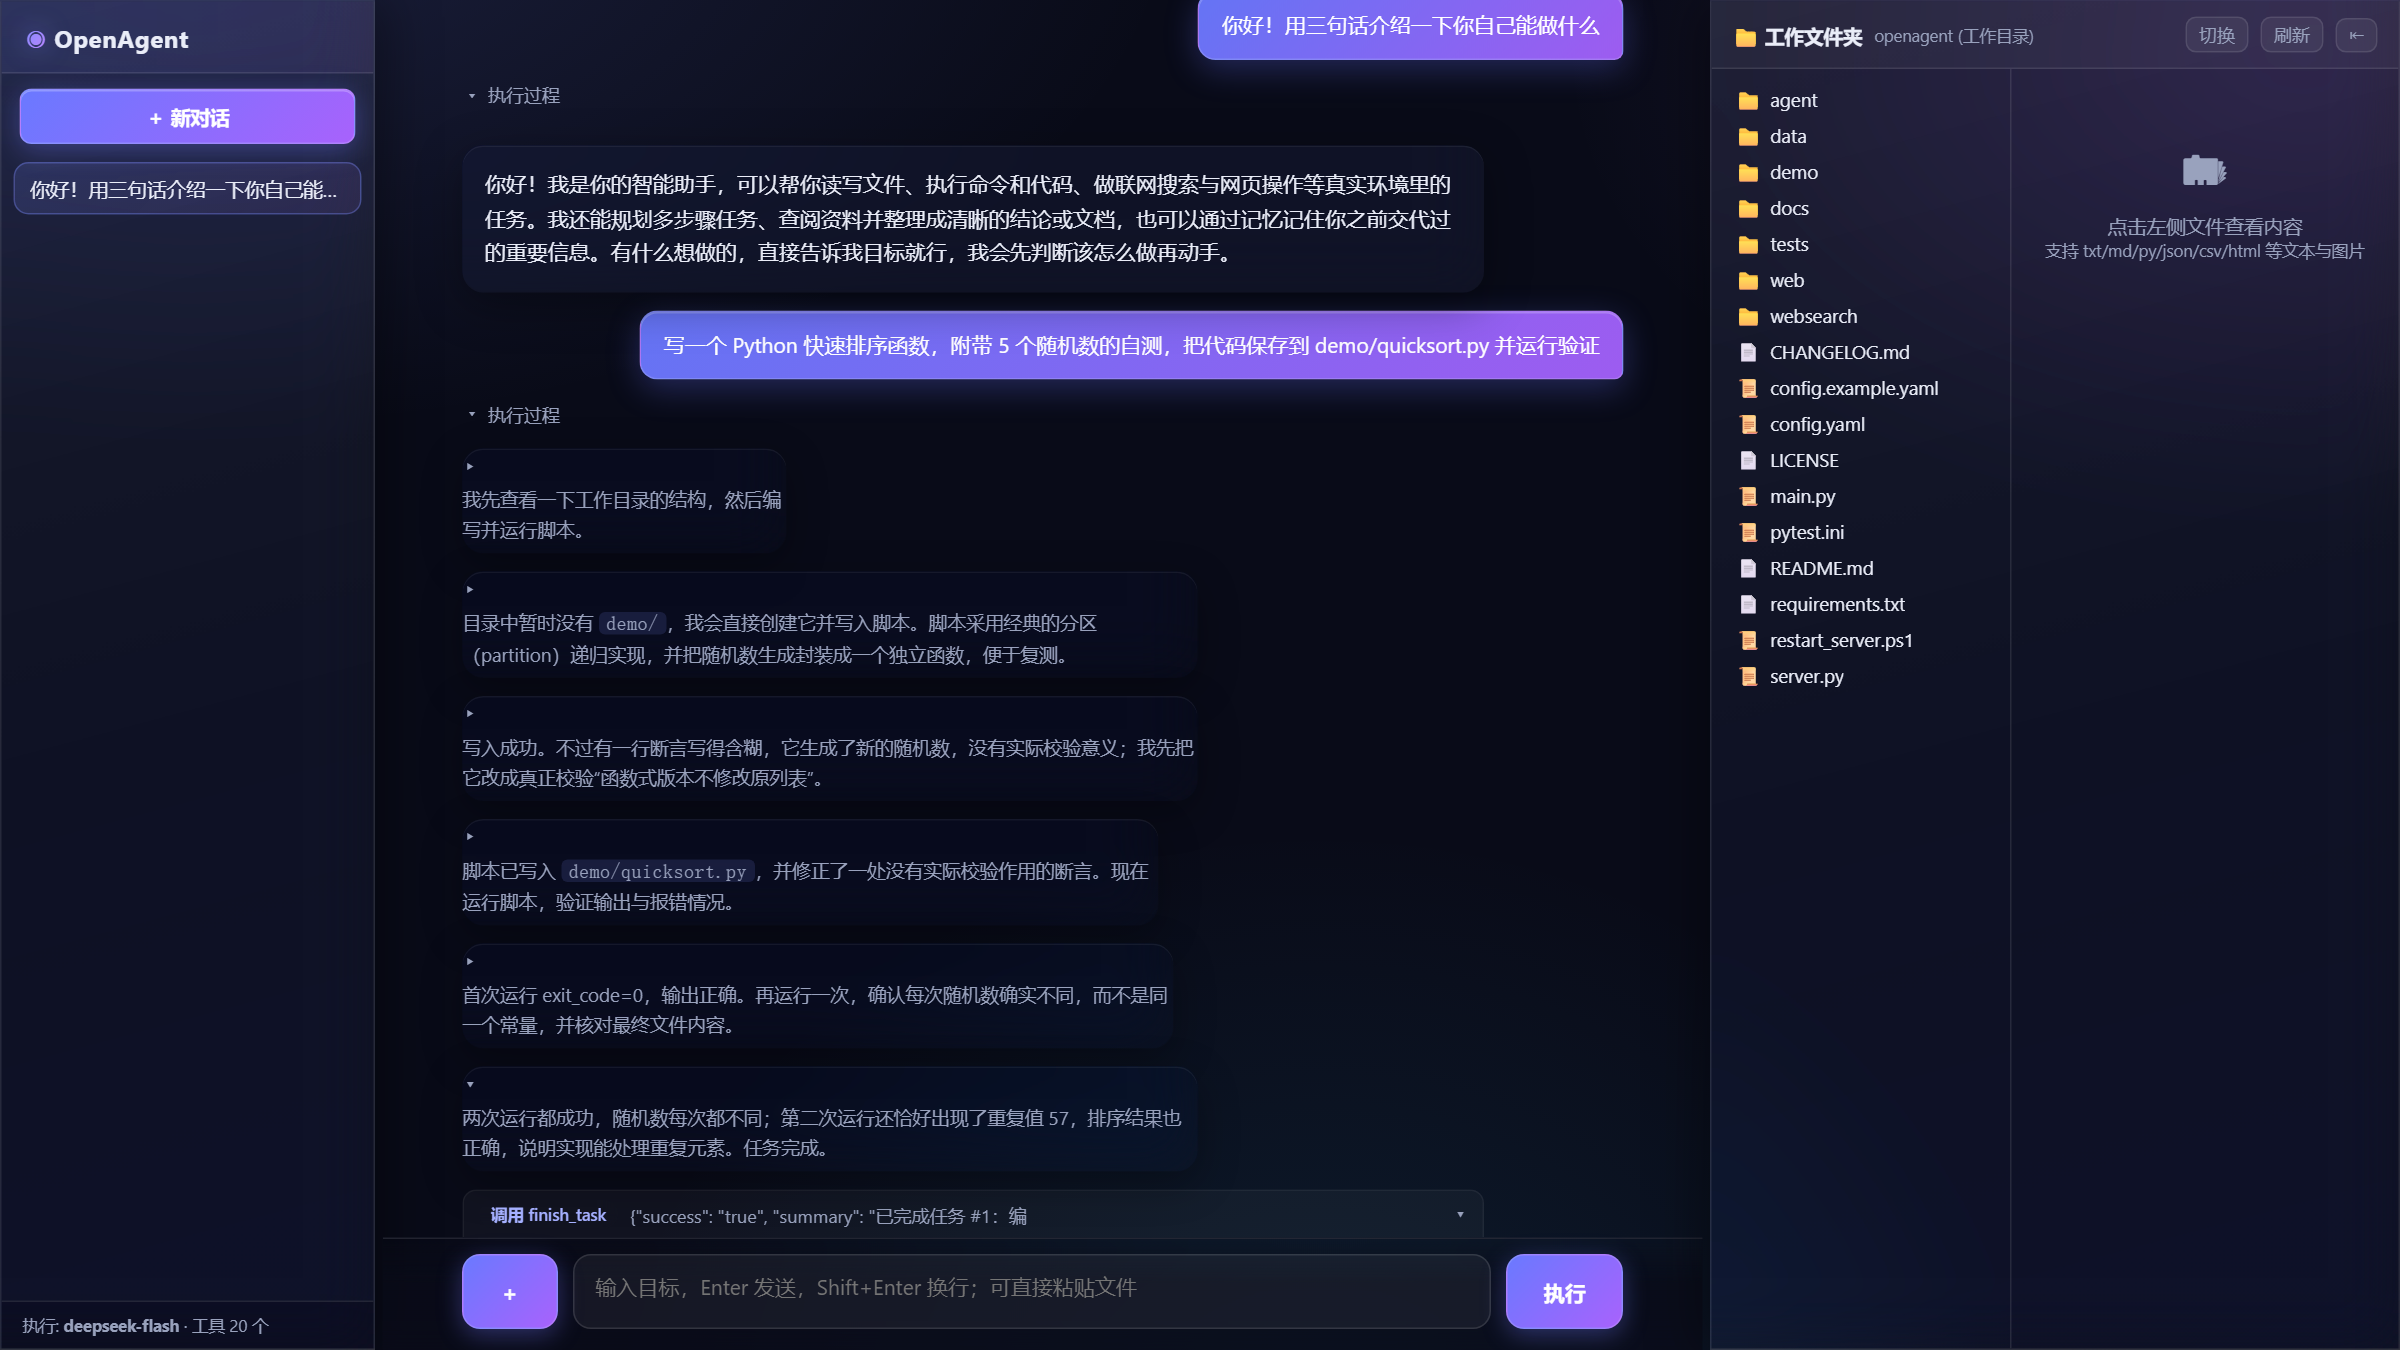
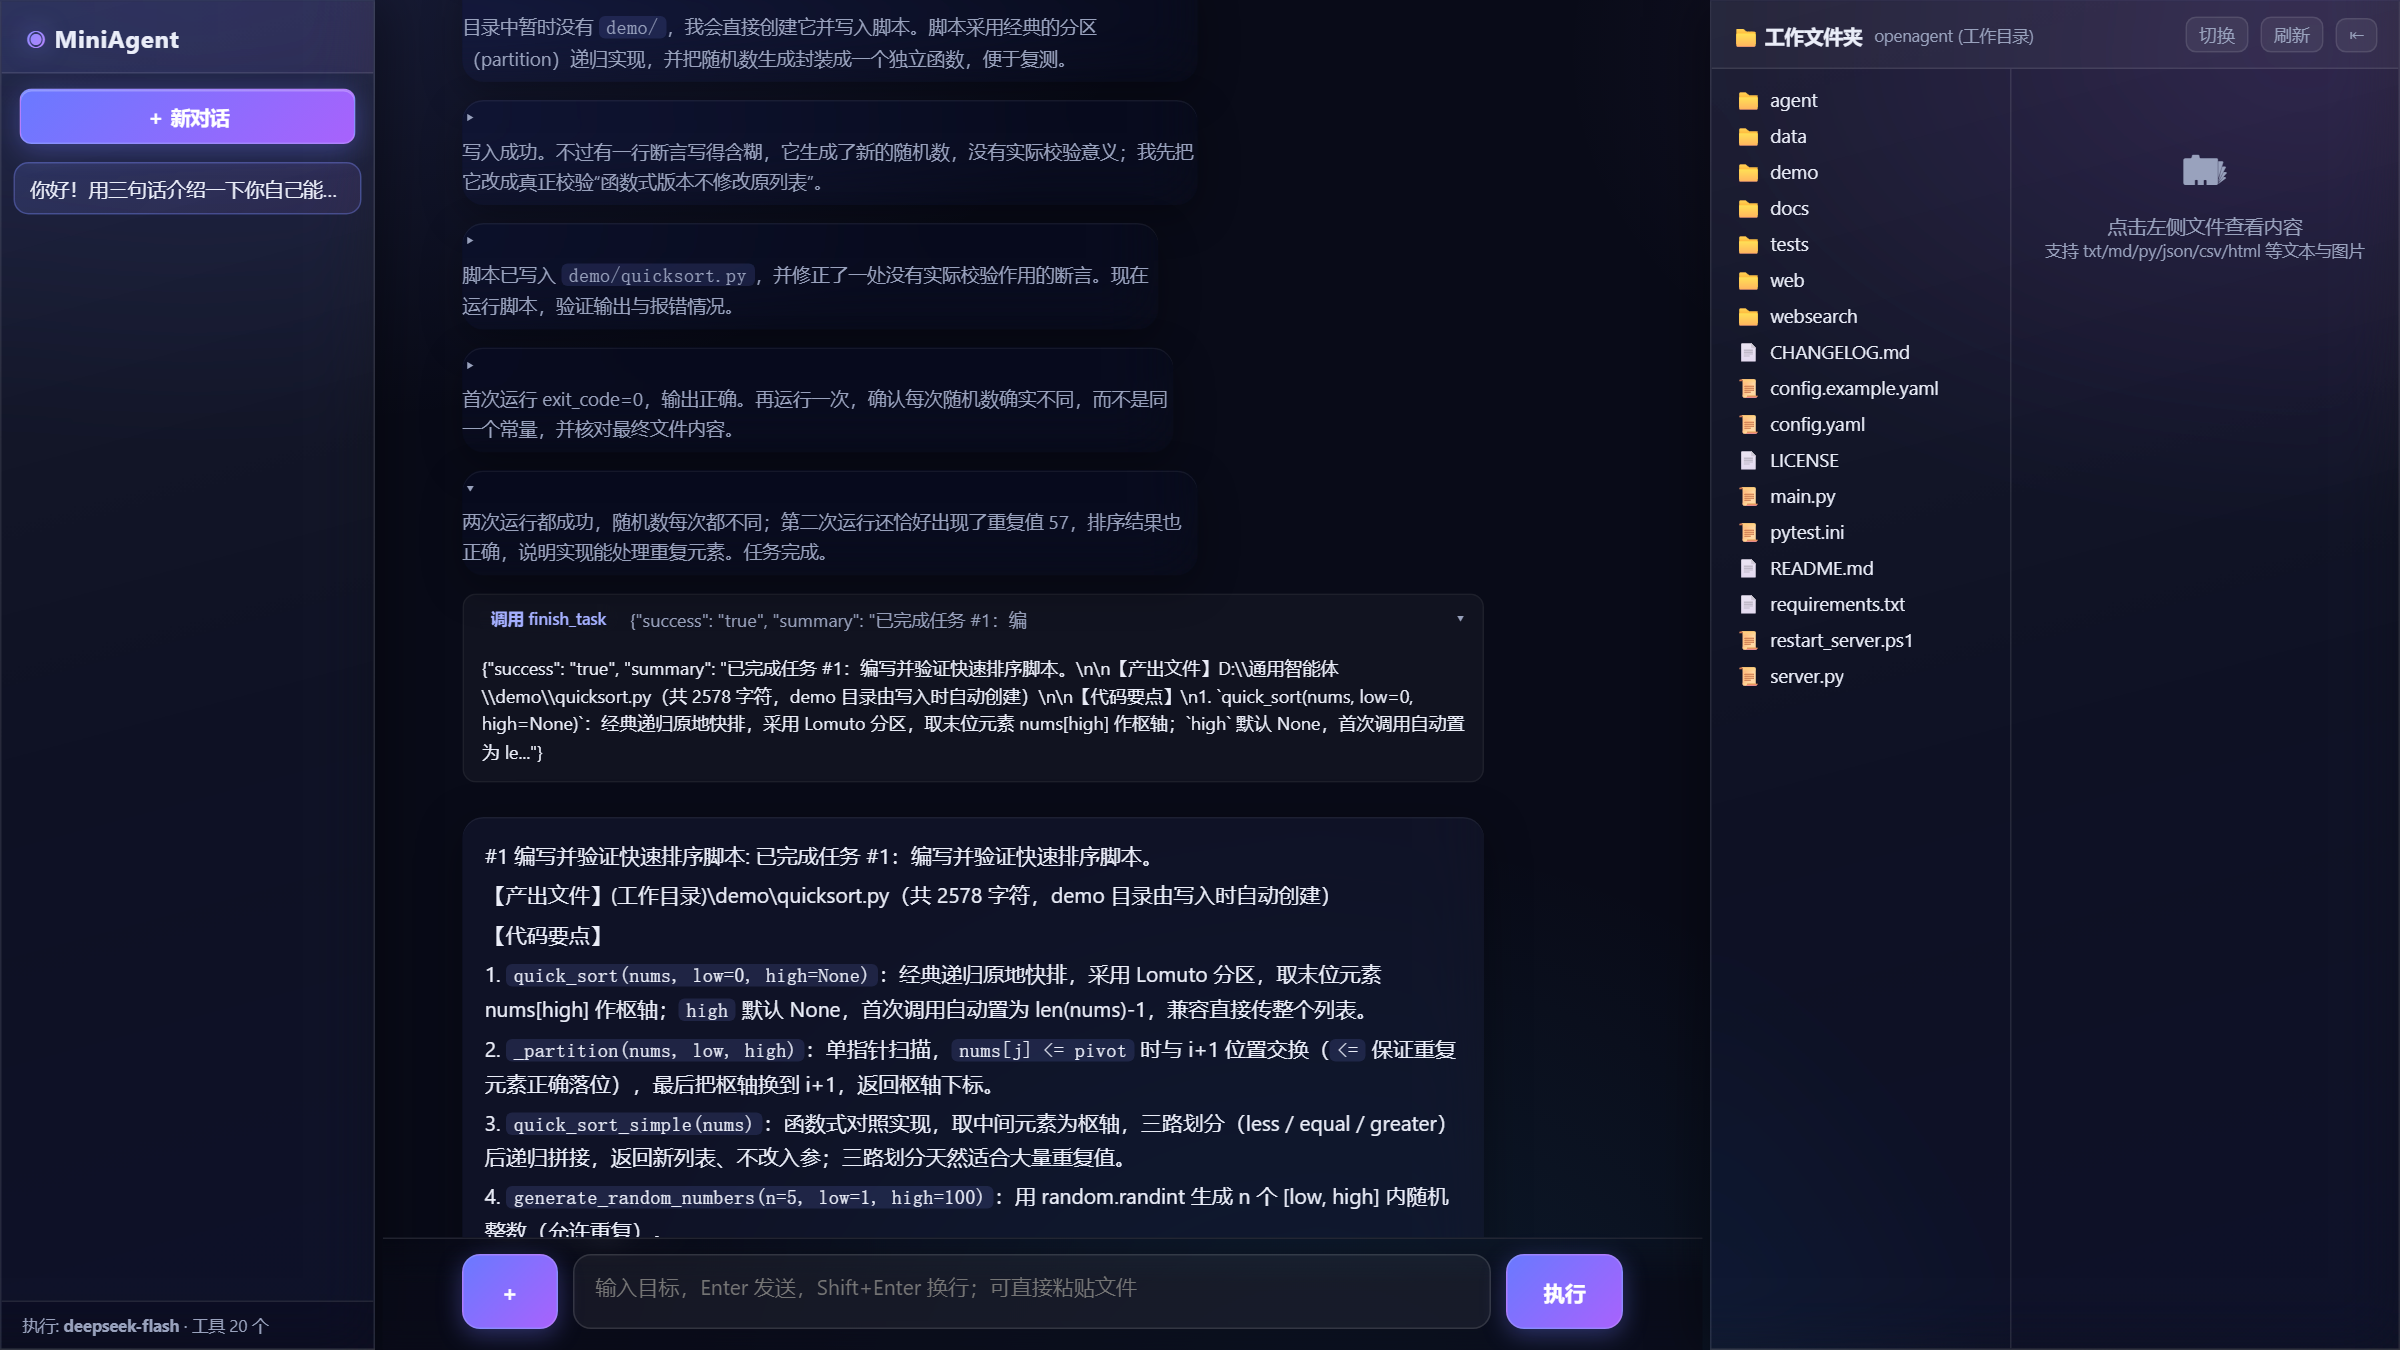
Rename project: OpenAgent -> MiniAgent (all surfaces aligned, UI screenshots refreshed)

diff --git a/web/static/index.html b/web/static/index.html
@@ -3,7 +3,7 @@
 <head>
 <meta charset="UTF-8">
 <meta name="viewport" content="width=device-width, initial-scale=1.0">
-<title>OpenAgent - 开源通用智能体</title>
+<title>MiniAgent - 开源通用智能体</title>
 <style>
   :root {
     --bg: #0f1117; --panel: #161a23; --panel2: #1c2230; --border: #2a3245;
@@ -340,7 +340,7 @@
 </head>
 <body>
 <div class="sidebar">
-  <h1><span>◉</span> OpenAgent</h1>
+  <h1><span>◉</span> MiniAgent</h1>
   <button class="new-chat" onclick="newSession()">＋ 新对话</button>
   <div class="session-list" id="sessionList"></div>
   <div class="foot" id="meta">加载中...</div>

diff --git a/main.py b/main.py
@@ -26,7 +26,7 @@ from agent.tools.registry import ToolResult
 
 console = Console()
 
-BANNER = """[bold cyan]OpenAgent[/] - 开源通用智能体
+BANNER = """[bold cyan]MiniAgent[/] - 开源通用智能体
 [dim]Plan-and-Execute · ReAct · Tool Calling · Browser[/dim]
 [dim]模型: OpenAI 兼容 API · MIT License[/dim]"""
 

diff --git a/README.md b/README.md
@@ -1,7 +1,7 @@
-# OpenAgent - 开源通用智能体
+# MiniAgent - 开源通用智能体
 
 <p align="center">
-  <img src="docs/screenshots/chat.png" width="86%" alt="OpenAgent Web UI">
+  <img src="docs/screenshots/chat.png" width="86%" alt="MiniAgent Web UI">
 </p>
 
 <p align="center">
@@ -79,7 +79,7 @@ python server.py
 
 侧栏会话管理（新建 / 重命名 / 删除、运行中任务 ⏳ 标识）；聊天页实时渲染执行计划、思考与工具调用（可展开）、过程正文与最终结论；右侧文件面板直接浏览/预览工作目录产物。
 
-仓库内置一组演示会话数据（`.openagent/`），首次启动即可在侧栏看到示例对话效果。
+仓库内置一组演示会话数据（`.miniagent/`），首次启动即可在侧栏看到示例对话效果。
 
 ## 内置工具
 
@@ -149,7 +149,7 @@ pytest tests/test_smoke.py -v      # 冒烟：需要 api 段配置的 API 可用
 │       ├── file_tools.py / shell_tools.py / python_tools.py / web_tools.py / doc_tools.py
 │       └── browser/         # Playwright 会话 + ref 定位
 ├── web/static/index.html    # Web 聊天页（玻璃拟态主题，单文件零依赖）
-├── .openagent/              # 演示会话数据（可删除）
+├── .miniagent/              # 演示会话数据（可删除）
 └── tests/
 ```
 

diff --git a/CHANGELOG.md b/CHANGELOG.md
@@ -1,4 +1,4 @@
-# OpenAgent 工作过程更改日志
+# MiniAgent 工作过程更改日志
 
 > 记录项目迭代过程中遇到的问题现象、根因、解决方案，以及下次构建同类项目可直接复用的提示词。
 > 目的：避免重复踩坑——同类问题出现时，先查本日志，再按附录提示词让模型处理。
@@ -75,7 +75,7 @@
 - 规划/执行模型切到 deepseek-r1:32b 后走 JSON 模式；`_probe_tool_mode` 自动探测 native/json。
 - `_vision_describe` 视觉旁路：浏览器截图交 qwen3-vl:8b 转文本注入执行器。
 - final 前置校验：实时性任务必须先调工具，禁止凭记忆直答。
-- 工作目录切换弹文件管理器；会话与工作目录绑定（`.openagent/`）。
+- 工作目录切换弹文件管理器；会话与工作目录绑定（`.miniagent/`）。
 
 ### 2026-09-12~14 会话：搜索与文档
 
